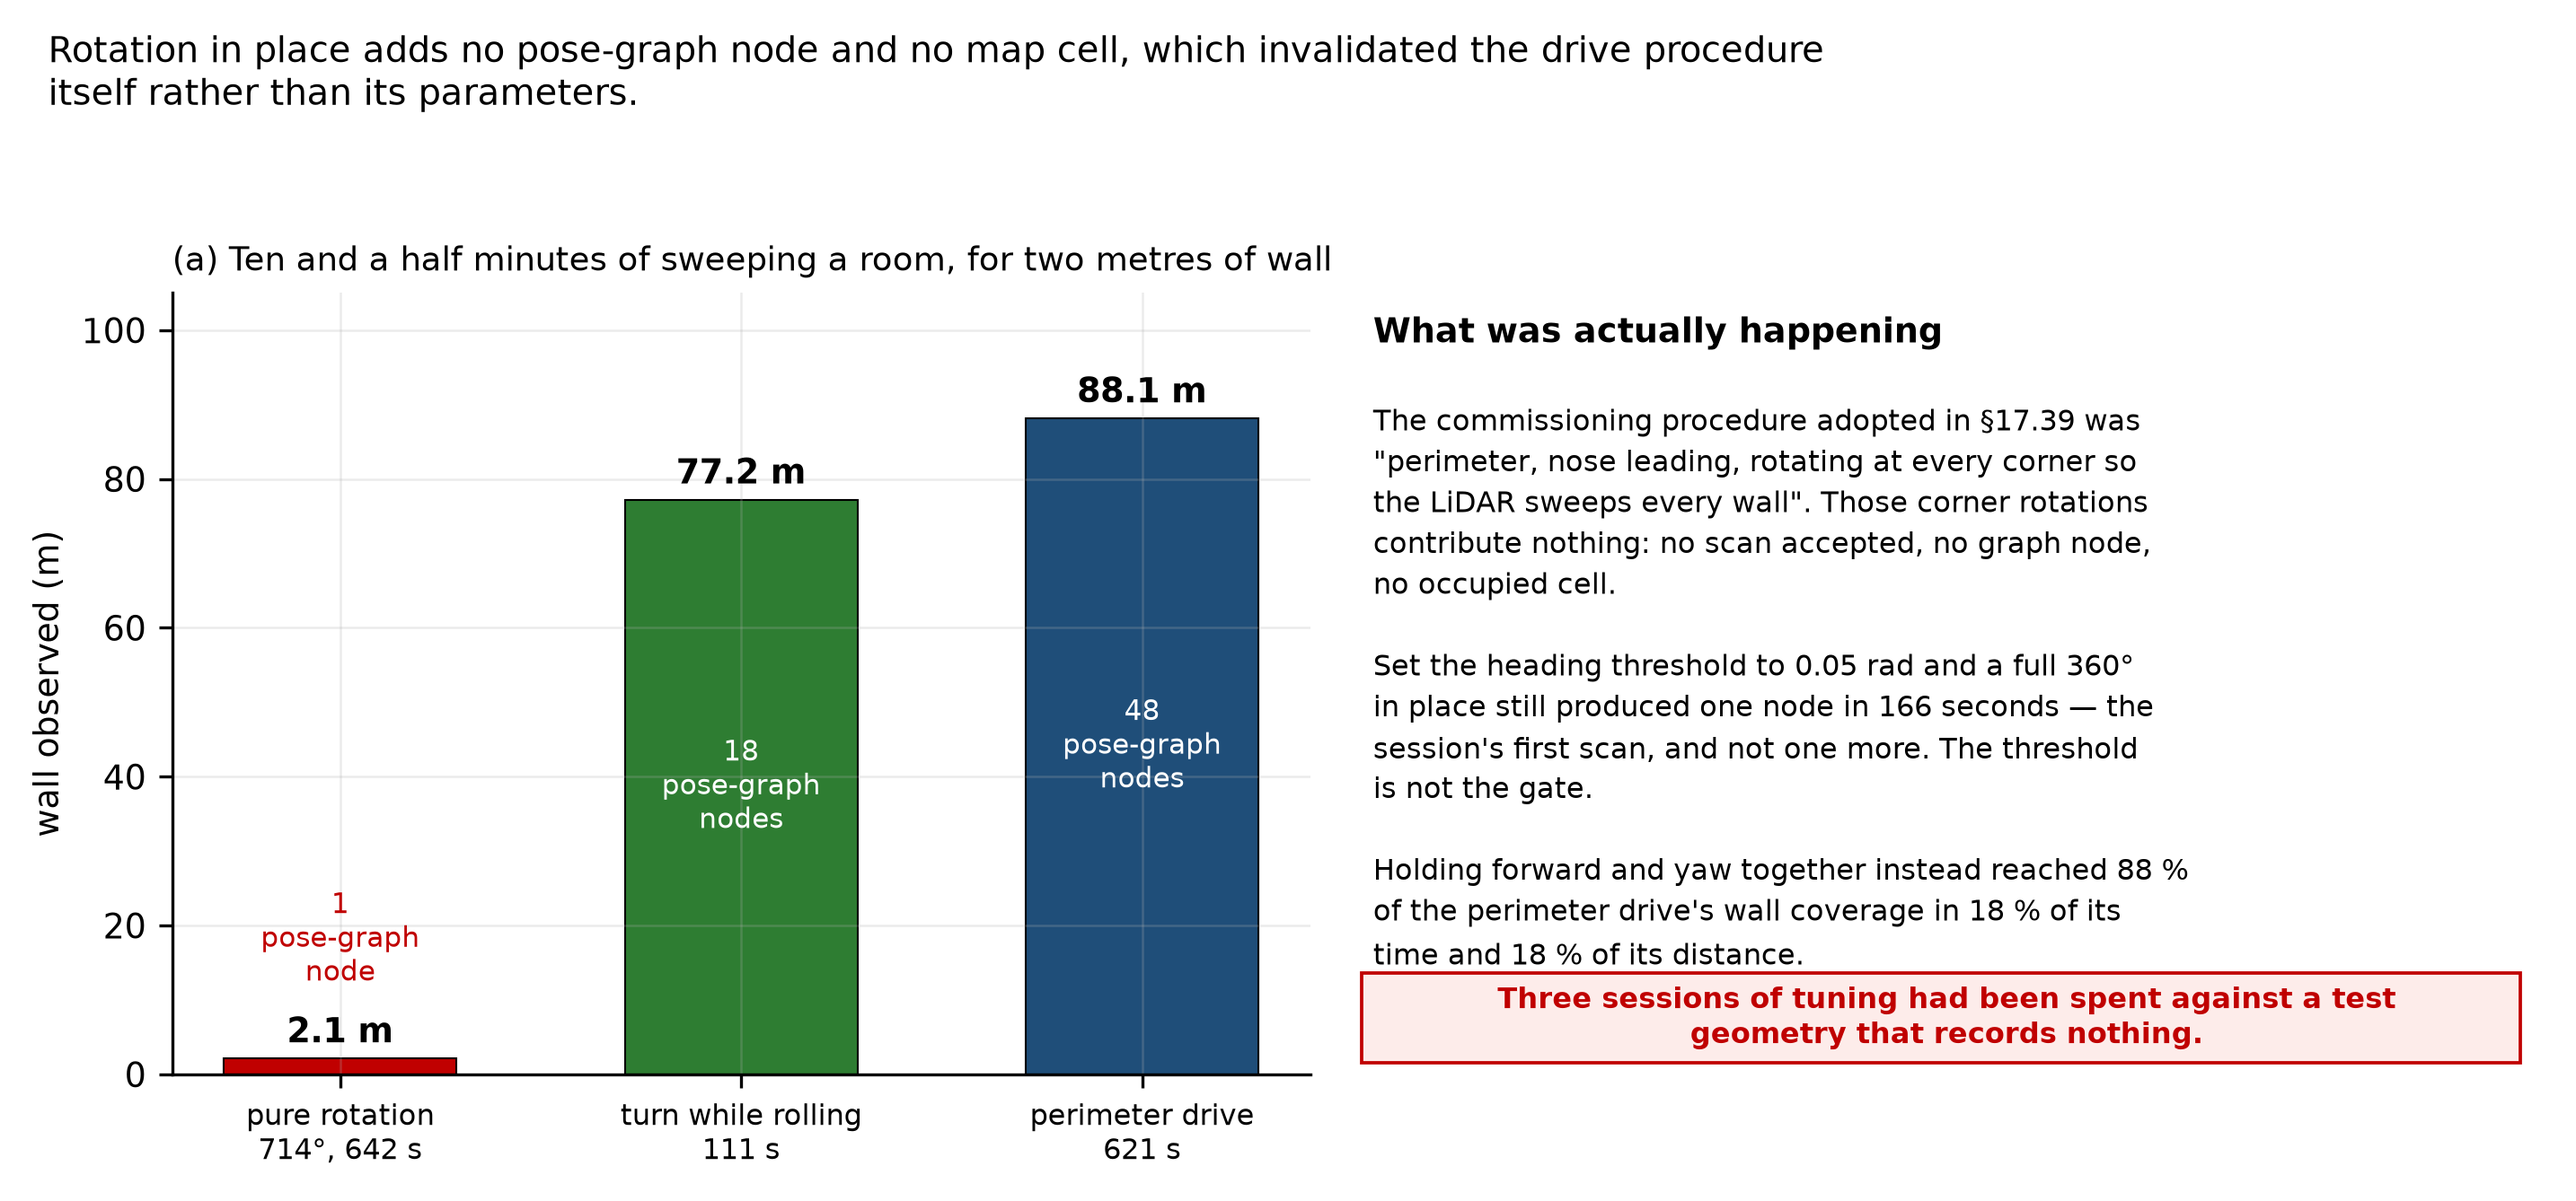
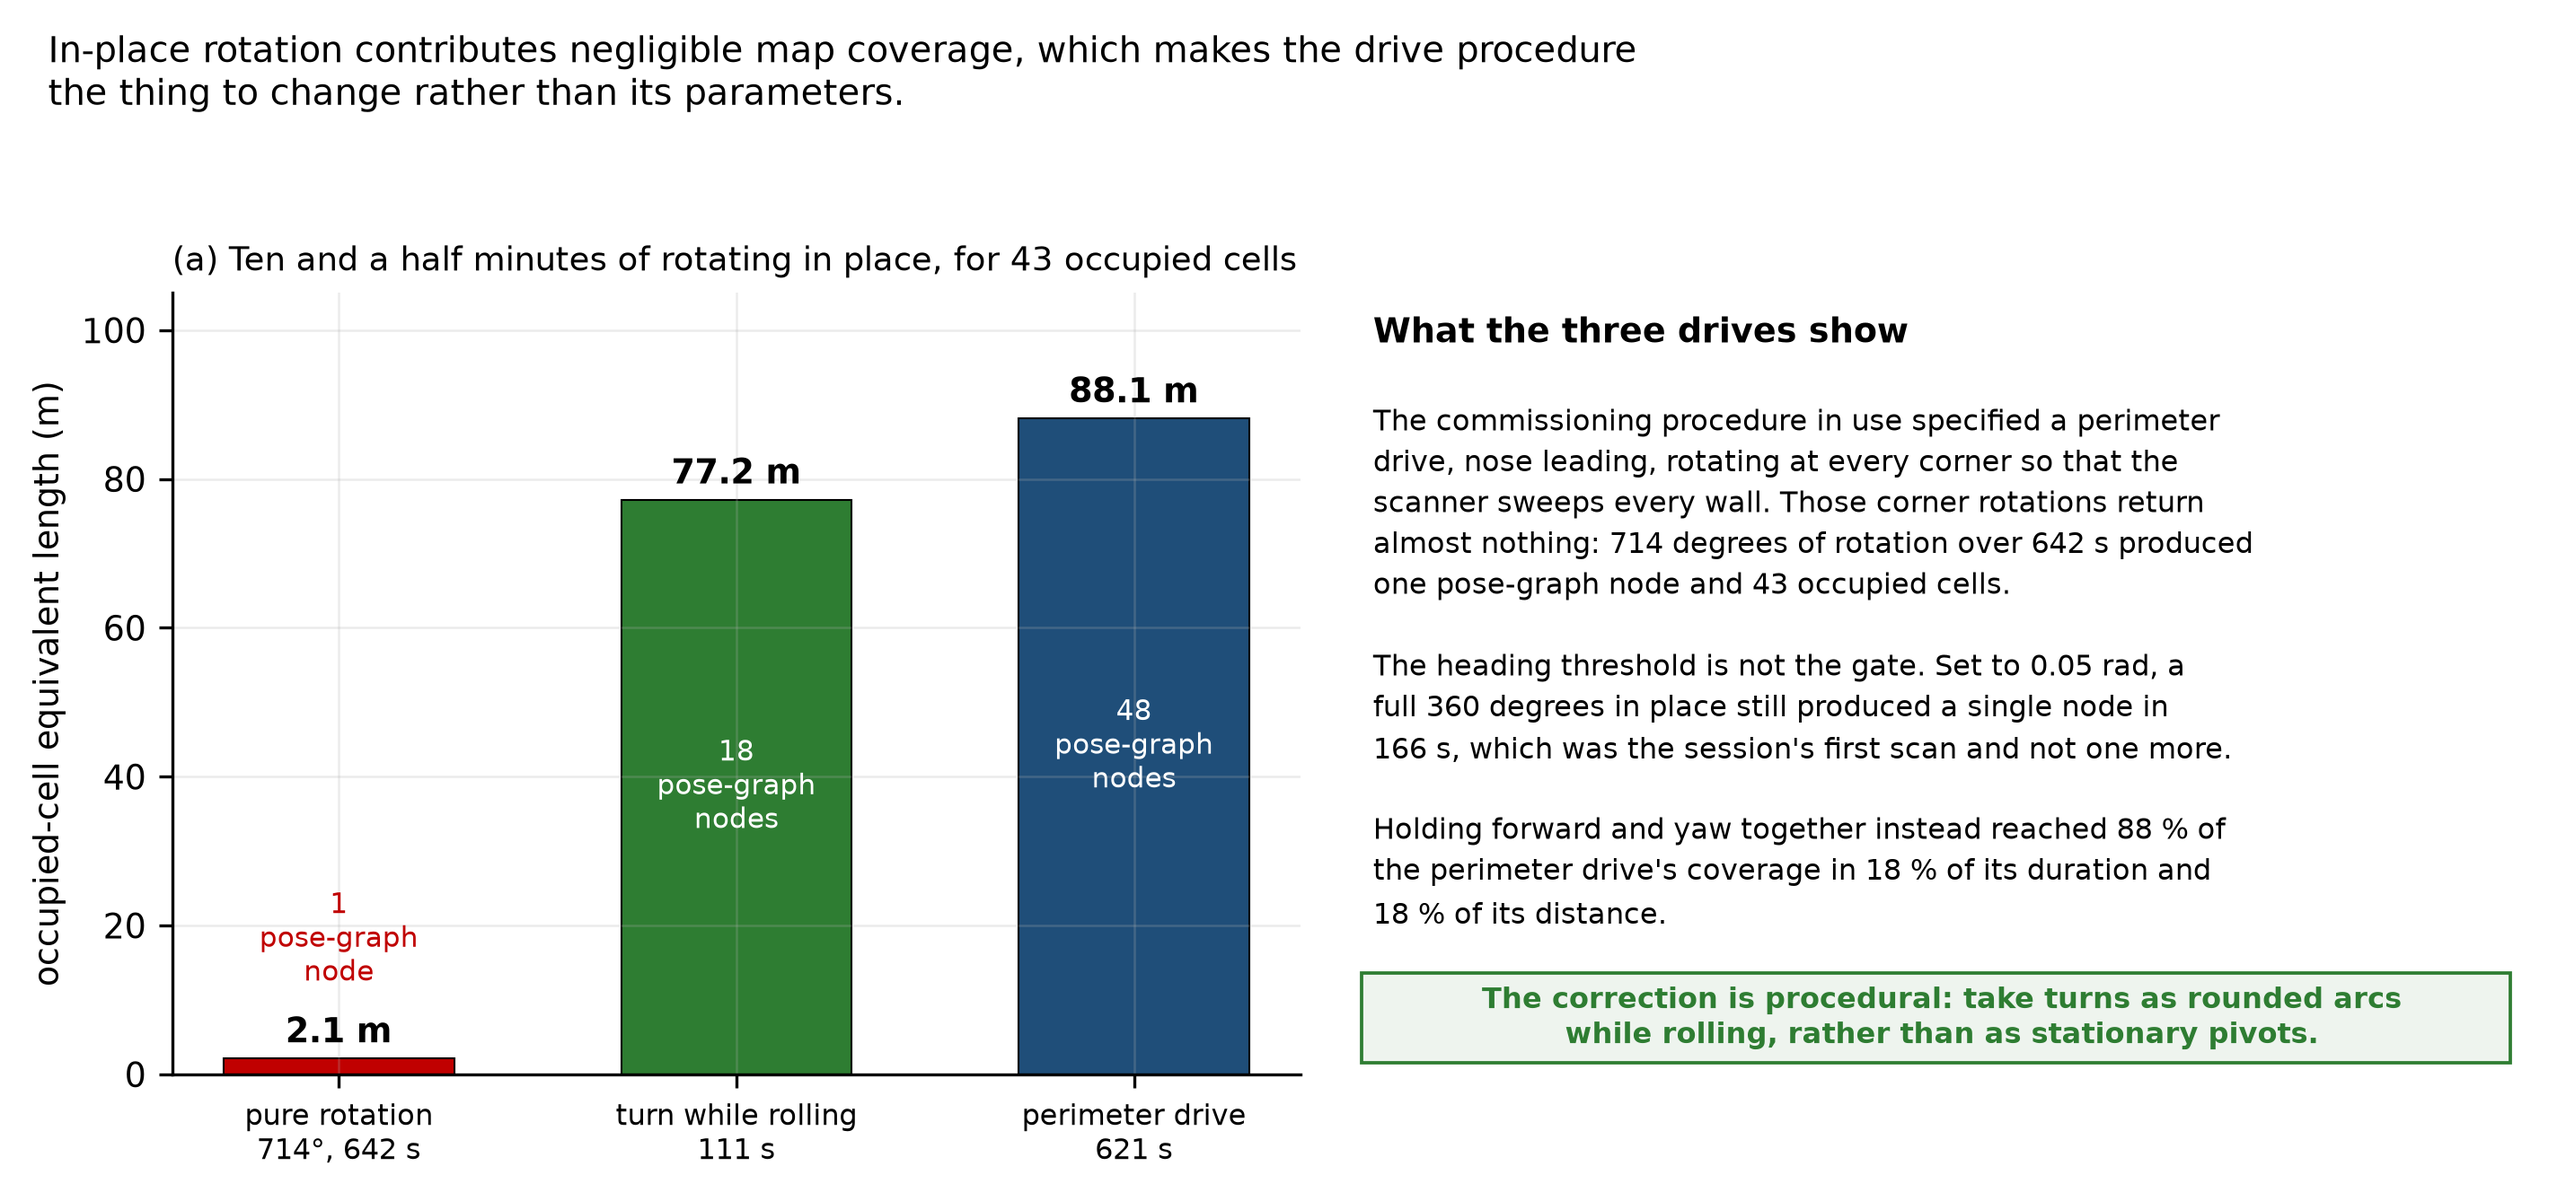
Fix three figures that contradicted the report text
Found by inspecting the exported PDF rather than the DOCX, which is where
these were visible.

f_maps.py (Figure 13). The figure plotted the 31 Aug and 1 Sep drives while
Section 6.4 quoted acceptance-criteria figures from the 15 Sep runs. Figure
and text described different experiments and nothing said so. Rebuilt from
docs/evidence/circular_loop_15sep/, and every number in the panel titles is
now computed from the grid shown: 84.6, 78.3 and 73.0 % unclassified. Panel
subtitles also switched from "% of cells observed" to "% unclassified" so the
figure and the text state the same quantity in the same direction.

f_campaign.py (Figure 12). The headline read "Rotation in place adds no
pose-graph node and no map cell" directly above a bar labelled 1 pose-graph
node and 2.1 m, and the body text repeated the claim. Replaced with the
measured statement. The y-axis said "wall observed (m)" for a quantity that
is occupied-cell count times the 0.05 m cell size; relabelled "occupied-cell
equivalent length (m)". Also removed an internal section reference and the
audit-voice callout, neither of which belongs in a submitted report.

f_layers.py (Figure 14). Enlarged ~20 % so the evidence column is readable at
page scale rather than only when zoomed.

mk_traj.py (Figure 10). Title said "Closed-route accuracy"; the metric is
endpoint closure and the report says so everywhere else.

Claude-Session: https://claude.ai/code/session_018Rq7SH2yyXHL25hgCc3wZN

diff --git a/docs/aps_report/figure_src/f_maps.py b/docs/aps_report/figure_src/f_maps.py
@@ -1,46 +1,35 @@
-"""Figure 29 — the three commissioning maps, with the area actually driven.
+"""Figure 13 - the three commissioning maps of 15 September, from the saved PGM/YAML.
 
-Each panel is the saved occupancy grid exactly as `map_saver_cli` wrote it,
-placed in world coordinates from its own YAML origin and resolution. Over it
-runs the pose the robot believed it had at the time, taken from the same log
-that Figure 16 uses for the correction traces, with red dots marking where it
-actually stood. The dots are the point of the figure: the mapped extent is much
-larger than the ground the robot ever covered, which is what a sparse map looks
-like when the drive procedure sweeps walls it never approaches.
+These are the runs whose acceptance-criteria figures Section 6.4 reports. The
+earlier version of this figure plotted the 31 Aug / 1 Sep drives instead, so the
+maps shown and the numbers quoted came from different experiments.
 """
 import sys, os; sys.path.insert(0, os.path.dirname(os.path.abspath(__file__)))
 from style import *
 import numpy as np, csv
 
+EV = f'{REPO}/docs/evidence/circular_loop_15sep'
 RUNS = [
-    ('front leg, 31 Aug',            'run_20260831', 'run_20260831_155316',
-     'run_20260831_155316_pose_trimmed.csv', C['defect']),
-    ('right leg, 31 Aug',            'run_20260831', 'run_20260831_191509',
-     'run_20260831_191509_pose.csv',          C['fixed']),
-    ('front leg re-driven, 1 Sep',   'run_20260901', 'run_20260901_112335',
-     'run_20260901_112335_pose.csv',          C['accent']),
+    ('first attempt',            'run_20260915_131800', C['defect']),
+    ('second attempt',           'run_20260915_140253', C['command']),
+    ('third attempt, RAW gate',  'run_20260915_154615', C['fixed']),
 ]
-
-UNKNOWN = 205          # the value map_saver writes for never-observed cells
+UNKNOWN = 205
 
 
 def read_pgm(path):
-    """Minimal binary P5 reader; the maps carry no comments."""
     with open(path, 'rb') as f:
         assert f.readline().strip() == b'P5'
         w, h = (int(v) for v in f.readline().split())
         maxval = int(f.readline())
-        data = np.frombuffer(f.read(w*h), dtype=np.uint8).reshape(h, w)
-    return data, maxval
+        return np.frombuffer(f.read(w*h), dtype=np.uint8).reshape(h, w), maxval
 
 
 def read_yaml(path):
     meta = {}
     for line in open(path):
-        if ':' not in line:
-            continue
-        k, v = line.split(':', 1)
-        meta[k.strip()] = v.strip()
+        if ':' in line:
+            k, v = line.split(':', 1); meta[k.strip()] = v.strip()
     res = float(meta['resolution'])
     ox, oy = (float(v) for v in meta['origin'].strip('[]').split(',')[:2])
     return res, ox, oy
@@ -58,63 +47,41 @@ def read_pose(path):
     return np.array(xs), np.array(ys)
 
 
-fig, axes = plt.subplots(1, 3, figsize=(10.6, 4.0))
-REPO_RUNS = f'{REPO}/data/field_runs'
-
-# One shared window across all three panels: the maps differ in size, and with
-# an equal aspect that would render them at three different heights and make
-# them look like three different places at three different scales.
-bounds = []
-for _, folder, stem, _, _ in RUNS:
-    img, _m = read_pgm(f'{REPO_RUNS}/{folder}/{stem}.pgm')
-    res, ox, oy = read_yaml(f'{REPO_RUNS}/{folder}/{stem}.yaml')
-    h, w = img.shape
-    bounds.append((ox, ox + w*res, oy, oy + h*res))
-X0 = min(b[0] for b in bounds); X1 = max(b[1] for b in bounds)
-Y0 = min(b[2] for b in bounds); Y1 = max(b[3] for b in bounds)
-
-for ax, (name, folder, stem, posefile, col) in zip(axes, RUNS):
-    img, _ = read_pgm(f'{REPO_RUNS}/{folder}/{stem}.pgm')
-    res, ox, oy = read_yaml(f'{REPO_RUNS}/{folder}/{stem}.yaml')
+fig, axes = plt.subplots(1, 3, figsize=(11.0, 4.2))
+for ax, (name, stem, col) in zip(axes, RUNS):
+    img, _ = read_pgm(f'{EV}/{stem}.pgm')
+    res, ox, oy = read_yaml(f'{EV}/{stem}.yaml')
     h, w = img.shape
     extent = [ox, ox + w*res, oy, oy + h*res]
-    ax.imshow(img, cmap='gray', vmin=0, vmax=255, origin='upper',
-              extent=extent, interpolation='nearest', zorder=1)
+    unk = float((img == UNKNOWN).sum()) / img.size * 100.0
+    occ = int((img <= 50).sum())
 
-    known = float(np.mean(img != UNKNOWN) * 100)
-    occ = int(np.sum(img < 100))
+    shown = np.full(img.shape, 1.0)
+    shown[img == UNKNOWN] = 0.80          # grey, never observed
+    shown[img <= 50] = 0.0                # black, occupied
+    ax.imshow(shown, cmap='gray', vmin=0, vmax=1, origin='lower',
+              extent=extent, interpolation='nearest')
 
-    xs, ys = read_pose(f'{REPO_RUNS}/{folder}/{posefile}')
+    xs, ys = read_pose(f'{EV}/{stem}_pose.csv')
     if len(xs):
-        ax.plot(xs, ys, color=col, lw=1.3, zorder=3, solid_capstyle='round')
-        # every twenty-fifth pose, so the dots read as a track rather than a smear
-        ax.scatter(xs[::25], ys[::25], s=7, color=C['defect'], zorder=4,
-                   edgecolors='none')
-        ax.plot(xs[0], ys[0], marker='o', ms=6, mfc='white', mec=col, mew=1.4,
-                zorder=5)
+        ax.plot(xs, ys, color=col, lw=1.1, alpha=0.9, zorder=3)
+        ax.plot(xs[0], ys[0], 'o', mfc='none', mec=col, ms=7, mew=1.4, zorder=4)
 
-    ax.set_xlim(X0, X1); ax.set_ylim(Y0, Y1)
-    ax.set_aspect('equal')
-    ax.set_xlabel('map x (m)', fontsize=8)
-    ax.tick_params(labelsize=7)
-    ax.grid(alpha=0.15)
-    ax.set_title(f'{name}\n{known:.0f} % of cells observed · {occ} occupied',
+    ax.set_title(f'{name}\n{unk:.1f} % unclassified  ·  {occ} occupied cells',
                  loc='left', fontsize=8.4)
+    ax.set_xlabel('map x (m)')
+    ax.set_aspect('equal')
+axes[0].set_ylabel('map y (m)')
 
-axes[0].set_ylabel('map y (m)', fontsize=8)
-h1 = plt.Line2D([], [], color=C['neutral'], lw=1.3)
-h2 = plt.Line2D([], [], marker='o', ls='none', ms=4, color=C['defect'])
-h3 = plt.Line2D([], [], marker='o', ls='none', ms=6, mfc='white',
-                mec=C['neutral'], mew=1.4)
-fig.legend([h1, h2, h3],
-           ['believed path during the drive', 'where the robot stood (every 25th pose)',
-            'start of the drive'],
-           loc='lower center', ncol=3, fontsize=7.6, bbox_to_anchor=(0.5, -0.10))
-fig.suptitle('The three commissioning maps, with the ground actually covered marked in red. '
-             'Grey is never observed.\nThe driven area is a small fraction of the mapped '
-             'extent: the map sparsity seen directly.',
-             fontsize=9.5, y=1.04, x=0.02, ha='left')
-plt.tight_layout()
+fig.legend(handles=[
+    plt.Line2D([], [], color=C['neutral'], lw=1.4, label='path driven'),
+    plt.Line2D([], [], marker='o', ls='none', mfc='none', mec=C['neutral'],
+               ms=7, label='start and return mark'),
+], loc='lower center', ncol=2, fontsize=8, frameon=False, bbox_to_anchor=(0.5, -0.02))
+
+fig.suptitle('The three commissioning maps of 15 September, rendered from the saved occupancy grids.\n'
+             'Grey is never observed. Unclassified percentage is computed over the whole allocated '
+             'grid, including cells the robot could not reach.',
+             fontsize=9.3, y=1.06, x=0.02, ha='left')
 plt.savefig(f'{FIGDIR}/fig29_field_maps.png', bbox_inches='tight')
-plt.close()
 print('ok')

diff --git a/docs/aps_report/figure_src/f_campaign.py b/docs/aps_report/figure_src/f_campaign.py
@@ -65,32 +65,32 @@ for i, (v, n) in enumerate(zip(wall, nodes)):
             ha='center', va='center', fontsize=7.4,
             color='white' if inside else C['defect'])
 b1.set_xticks(range(3)); b1.set_xticklabels(runs, fontsize=7.6)
-b1.set_ylim(0, 105); b1.set_ylabel('wall observed (m)')
-b1.set_title('(a) Ten and a half minutes of sweeping a room, for two metres of wall',
+b1.set_ylim(0, 105)
+b1.set_ylabel('occupied-cell equivalent length (m)')
+b1.set_title('(a) Ten and a half minutes of rotating in place, for 43 occupied cells',
              loc='left', fontsize=8.8)
 
 b2.axis('off'); b2.set_xlim(0,1); b2.set_ylim(0,1)
-b2.text(0.02, 0.97, 'What was actually happening', fontsize=9, fontweight='bold', va='top')
+b2.text(0.02, 0.97, 'What the three drives show', fontsize=9, fontweight='bold', va='top')
 b2.text(0.02, 0.86,
-        'The commissioning procedure adopted in §17.39 was\n'
-        '"perimeter, nose leading, rotating at every corner so\n'
-        'the LiDAR sweeps every wall". Those corner rotations\n'
-        'contribute nothing: no scan accepted, no graph node,\n'
-        'no occupied cell.\n\n'
-        'Set the heading threshold to 0.05 rad and a full 360°\n'
-        'in place still produced one node in 166 seconds — the\n'
-        'session\'s first scan, and not one more. The threshold\n'
-        'is not the gate.\n\n'
-        'Holding forward and yaw together instead reached 88 %\n'
-        'of the perimeter drive\'s wall coverage in 18 % of its\n'
-        'time and 18 % of its distance.',
+        'The commissioning procedure in use specified a perimeter\n'
+        'drive, nose leading, rotating at every corner so that the\n'
+        'scanner sweeps every wall. Those corner rotations return\n'
+        'almost nothing: 714 degrees of rotation over 642 s produced\n'
+        'one pose-graph node and 43 occupied cells.\n\n'
+        'The heading threshold is not the gate. Set to 0.05 rad, a\n'
+        'full 360 degrees in place still produced a single node in\n'
+        '166 s, which was the session\'s first scan and not one more.\n\n'
+        'Holding forward and yaw together instead reached 88 % of\n'
+        'the perimeter drive\'s coverage in 18 % of its duration and\n'
+        '18 % of its distance.',
         fontsize=7.8, va='top', linespacing=1.40)
-b2.add_patch(mp.Rectangle((0.01, 0.015), 0.97, 0.115, fc='#fdecea', ec=C['defect'], lw=0.9))
-b2.text(0.5, 0.072, 'Three sessions of tuning had been spent against a test\n'
-        'geometry that records nothing.',
-        ha='center', va='center', fontsize=7.8, color=C['defect'], fontweight='bold')
-fig.suptitle('Rotation in place adds no pose-graph node and no map cell, '
-             'which invalidated the drive procedure\nitself rather than its parameters.',
+b2.add_patch(mp.Rectangle((0.01, 0.015), 0.97, 0.115, fc='#eef4ee', ec=C['fixed'], lw=0.9))
+b2.text(0.5, 0.072, 'The correction is procedural: take turns as rounded arcs\n'
+        'while rolling, rather than as stationary pivots.',
+        ha='center', va='center', fontsize=7.8, color=C['fixed'], fontweight='bold')
+fig.suptitle('In-place rotation contributes negligible map coverage, which makes the drive procedure\n'
+             'the thing to change rather than its parameters.',
              fontsize=9.5, y=1.05, x=0.02, ha='left')
 plt.tight_layout(); plt.savefig(f'{FIGDIR}/fig17_rotation_deadzone.png'); plt.close()
 print('ok')

diff --git a/docs/aps_report/figure_src/f_layers.py b/docs/aps_report/figure_src/f_layers.py
@@ -56,7 +56,7 @@ COL  = {'measured': C['fixed'], 'rate': C['command'], 'open': C['neutral']}
 MARK = {'measured': '●', 'rate': '◐', 'open': '○'}
 FILL = {'measured': 0.92, 'rate': 0.92, 'open': 0.0}
 
-fig, ax = plt.subplots(figsize=(11.4, 9.2))
+fig, ax = plt.subplots(figsize=(13.7, 11.0))
 GAP = 1.85          # extra space where measured evidence ends
 first_open = min(i for i, r in enumerate(L) if r[1] == 'open')
 
@@ -80,8 +80,8 @@ def mark(x, y, band):
 for i, (name, band, ev) in enumerate(L):
     y = ys[i]
     mark(2.6, y, band)
-    ax.text(5.6, y, name, ha='left', va='center', fontsize=8.5, color='k')
-    ax.text(46, y, ev, ha='left', va='center', fontsize=7.0,
+    ax.text(5.6, y, name, ha='left', va='center', fontsize=9.6, color='k')
+    ax.text(46, y, ev, ha='left', va='center', fontsize=8.1,
             color=C['neutral'], linespacing=1.35)
 
 CLIFF = (ys[first_open-1] - heights[first_open-1]/2 + ys[first_open] + heights[first_open]/2) / 2.0
